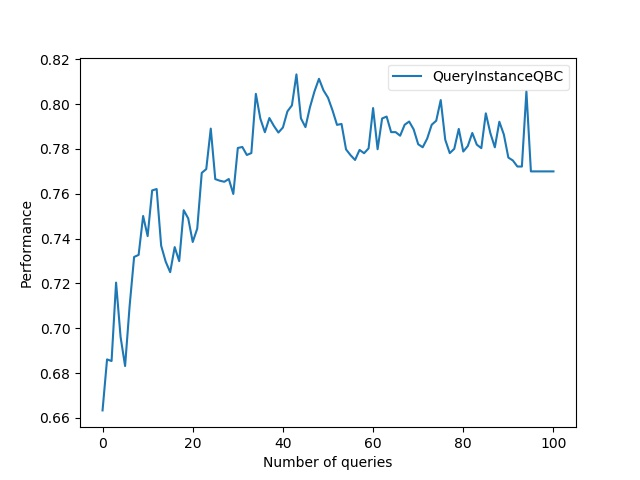
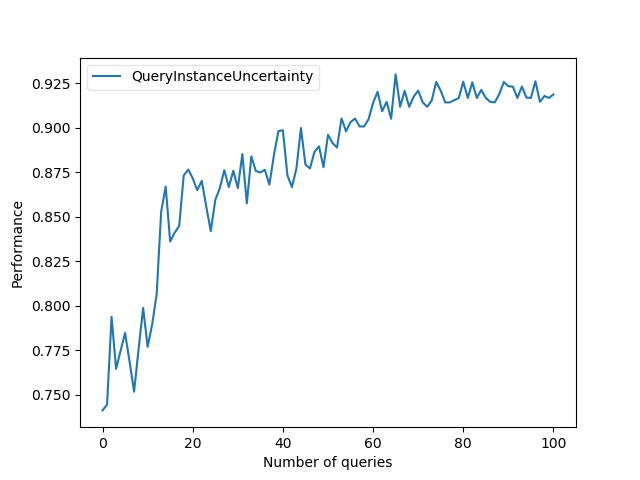
''

Changed region(s): [[0.0, 0.0938, 0.875, 0.9062]]

diff --git a/Acepy/acepy/experiment/al_experiment.py b/Acepy/acepy/experiment/al_experiment.py
@@ -124,14 +124,15 @@ class AlExperiment:
         kwargs: dict, optional
             The args used in strategy.
             If kwargs is None,the pre-defined query strategy will init in default way.
-            (See the default way of pre-defined query strategy in the 'query_strategy' and 'sota_strategy').        
+            (See the default way of pre-defined query strategy in the acepy/query_strategy/'query_strategy' and 'sota_strategy').        
             If strategy is a user-define strategy,the parameters accord with definition of function parameter.
+
             Note that, each parameters should be static.
             The parameters will be fed to the callable object automatically.
         """
         # check 
         if self._existed_query_strategy:
-            raise Exception("")
+            raise Exception("You already has set the query strategy,don`t has to set it again.")
         # user-defined strategy
         if callable(strategy):
             self.__custom_strategy_flag = True
@@ -179,8 +180,9 @@ class AlExperiment:
             Giving str to use a pre-defined performance-metric.
             
         kwargs: dict, optional
-            if kwargs is None,the pre-defined strategy will init in the default way.
             The args used in performance-metric.
+            if kwargs is None,the pre-defined performance will init in the default way.
+             (See the default way of pre-defined query strategy in the acepy/metric/'performance').
             Note that, each parameters should be static.
                 
         """
@@ -277,8 +279,20 @@ class AlExperiment:
             if multi thread is True,it will run in multi-thread way.
             if not,it will be executed sequentially.
 
-        kwargs: set,optional
+        kwargs: set, optional
+            The parameters will use in aceThreading init or stateio init.
+            if the kwargs is None,it will init in the default way.
 
+            if multi_thread is True,the kwargs will be used for aceThreading init,
+            aceThreading(A class implement multi-threading in active learning for multiple 
+            random splits experiments.)
+            and you can see the specific parameter settings in acepy/utils/'multi_thread.py' init().
+
+            if not,the kwargs will be used for stateio init,
+            stateio(A class to store states.)
+            and you can see the specific parameter settings in acepy/experiment/'state_io.py' init().
+            
+            Note that, each parameters should be static.
         """
         if not self._split:
             raise Exception("Data split is unknown. Use set_data_split() to set an existed split, "

diff --git a/Acepy/test_alexperiment.py b/Acepy/test_alexperiment.py
@@ -12,6 +12,7 @@ X, y = make_classification(n_samples=150, n_features=20, n_informative=2, n_redu
 
 al = AlExperiment(X, y)
 al.split_AL()
+# +++++++++++test user define query strategy+++++++++
 # user_query = QueryInstanceUncertainty
 # print(callable(user_query))
 # if callable(user_query):
@@ -23,7 +24,7 @@ al.split_AL()
 
 # ++++++++++++++test query_strategy++++++++++++
 # al.set_query_strategy(strategy="QueryInstanceUncertainty", measure='entropy')
-# al.set_query_strategy(strategy="QueryInstanceUncertainty", measure='least_confident')
+al.set_query_strategy(strategy="QueryInstanceUncertainty", measure='least_confident')
 # al.set_query_strategy(strategy="QueryInstanceUncertainty", measure='margin')
 # al.set_query_strategy(strategy="QueryInstanceUncertainty", measure='distance_to_boundary')
 
@@ -32,13 +33,20 @@ al.split_AL()
 # al.set_query_strategy('QureyExpectedErrorReduction')
 
 # al.set_query_strategy('QueryInstanceQBC', method='query_by_bagging', disagreement='vote_entropy')
-al.set_query_strategy('QueryInstanceQBC', method='query_by_bagging', disagreement='KL_divergence')
+# al.set_query_strategy('QueryInstanceQBC', method='query_by_bagging', disagreement='KL_divergence')
+
 # +++++++++test sota_stratgey++++++++++++
 # al.set_query_strategy('QueryInstanceGraphDensity', metric='manhattan')
 # al.set_query_strategy('QueryInstanceQUIRE')
-# al.set_performance_metric('zero_one_loss')
 
+
+
+
+# al.set_performance_metric('zero_one_loss')
 al.set_performance_metric('roc_auc_score')
+
+# 返回值不对应
+# al.set_performance_metric('f1_score')
 
 
 # al.start_query(multi_thread=False)

diff --git a/Acepy/acepy/metrics/__init__.py b/Acepy/acepy/metrics/__init__.py
@@ -1,1 +1,1 @@
-from .performance import accuracy_score, average_precision_score, precision_recall_curve, zero_one_loss, get_fps_tps_thresholds, roc_auc_score, roc_curve, hamming_loss, one_error, coverage_error, label_ranking_loss, label_ranking_average_precision_score, micro_auc_score, average_precision_score
+from .performance import accuracy_score, average_precision_score, precision_recall_curve, zero_one_loss, get_fps_tps_thresholds, roc_auc_score, roc_curve, f1_score, hamming_loss, one_error, coverage_error, label_ranking_loss, label_ranking_average_precision_score, micro_auc_score, average_precision_score

diff --git a/Acepy/acepy/metrics/performance.py b/Acepy/acepy/metrics/performance.py
@@ -11,13 +11,14 @@ from __future__ import division
 import numpy as np
 from scipy.sparse import csr_matrix
 from scipy.stats import rankdata
-
+from sklearn.metrics import f1_score
  
 __all__ = [
     'accuracy_score',
     'zero_one_loss',
     'roc_auc_score',
     'get_fps_tps_thresholds',
+    'f1_score',
     'hamming_loss',
     'one_error',
     'coverage_error',
